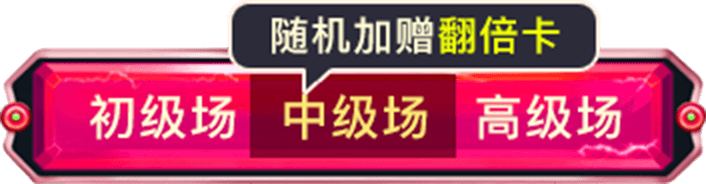
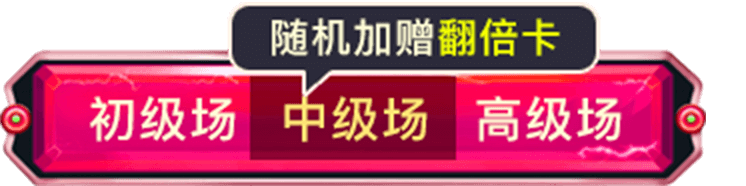
card 2.0

diff --git a/src/views/shufflinggame/components/comPop.vue b/src/views/shufflinggame/components/comPop.vue
@@ -37,7 +37,7 @@
             </template>
             <div :class="getClassName('product-img')" v-if="[2,4,5,6,9].includes(from)">
               <div class="item" v-for="(item,index) in carddata">
-                <div :class="getClassName('img_bg')">
+                <div class="img_bg" :class="{double:item.doubleState}">
                   <img :src="`${require(`../images/${item.awardsType}.png`)}`" alt="" v-if="item.awardsType!='fbk'">
                   <img :src="`${require(`../images/${item.awardsType}${level}.png`)}`" alt="" v-else>
                 </div>
@@ -367,7 +367,8 @@
               display: flex;
               align-items: center;
               justify-content: center;
-              &.flag5:before{
+              position: relative;
+              &.double:before{
                 content: '';
                 position: absolute;
                 width: 1.01rem;

diff --git a/src/views/shufflinggame/pages/css/index.less b/src/views/shufflinggame/pages/css/index.less
@@ -60,15 +60,13 @@
   }
   .tabs{
     width: 3.53rem;
-    height: .95rem;
+    height: .92rem;
     margin: auto;
     position: absolute;
     left: 0;
     right: 0;
     top: 1.65rem;
     &.header1{
-      height: .68rem;
-      top: 1.93rem;
       background: url("../../images/level1/tab.png");
       background-size: 100% 100%;
     }

diff --git a/src/views/shufflinggame/pages/index.vue b/src/views/shufflinggame/pages/index.vue
@@ -140,7 +140,7 @@ export default {
       if(arr){
         this.cardawardsdata=arr
         if(arr.length==2){
-          if(arr.filter(item=>item.awardType=='fbk').length){
+          if(arr.filter(item=>item.awardsType=='fbk').length){
             this.flag=6
           }else{
             this.flag=9
